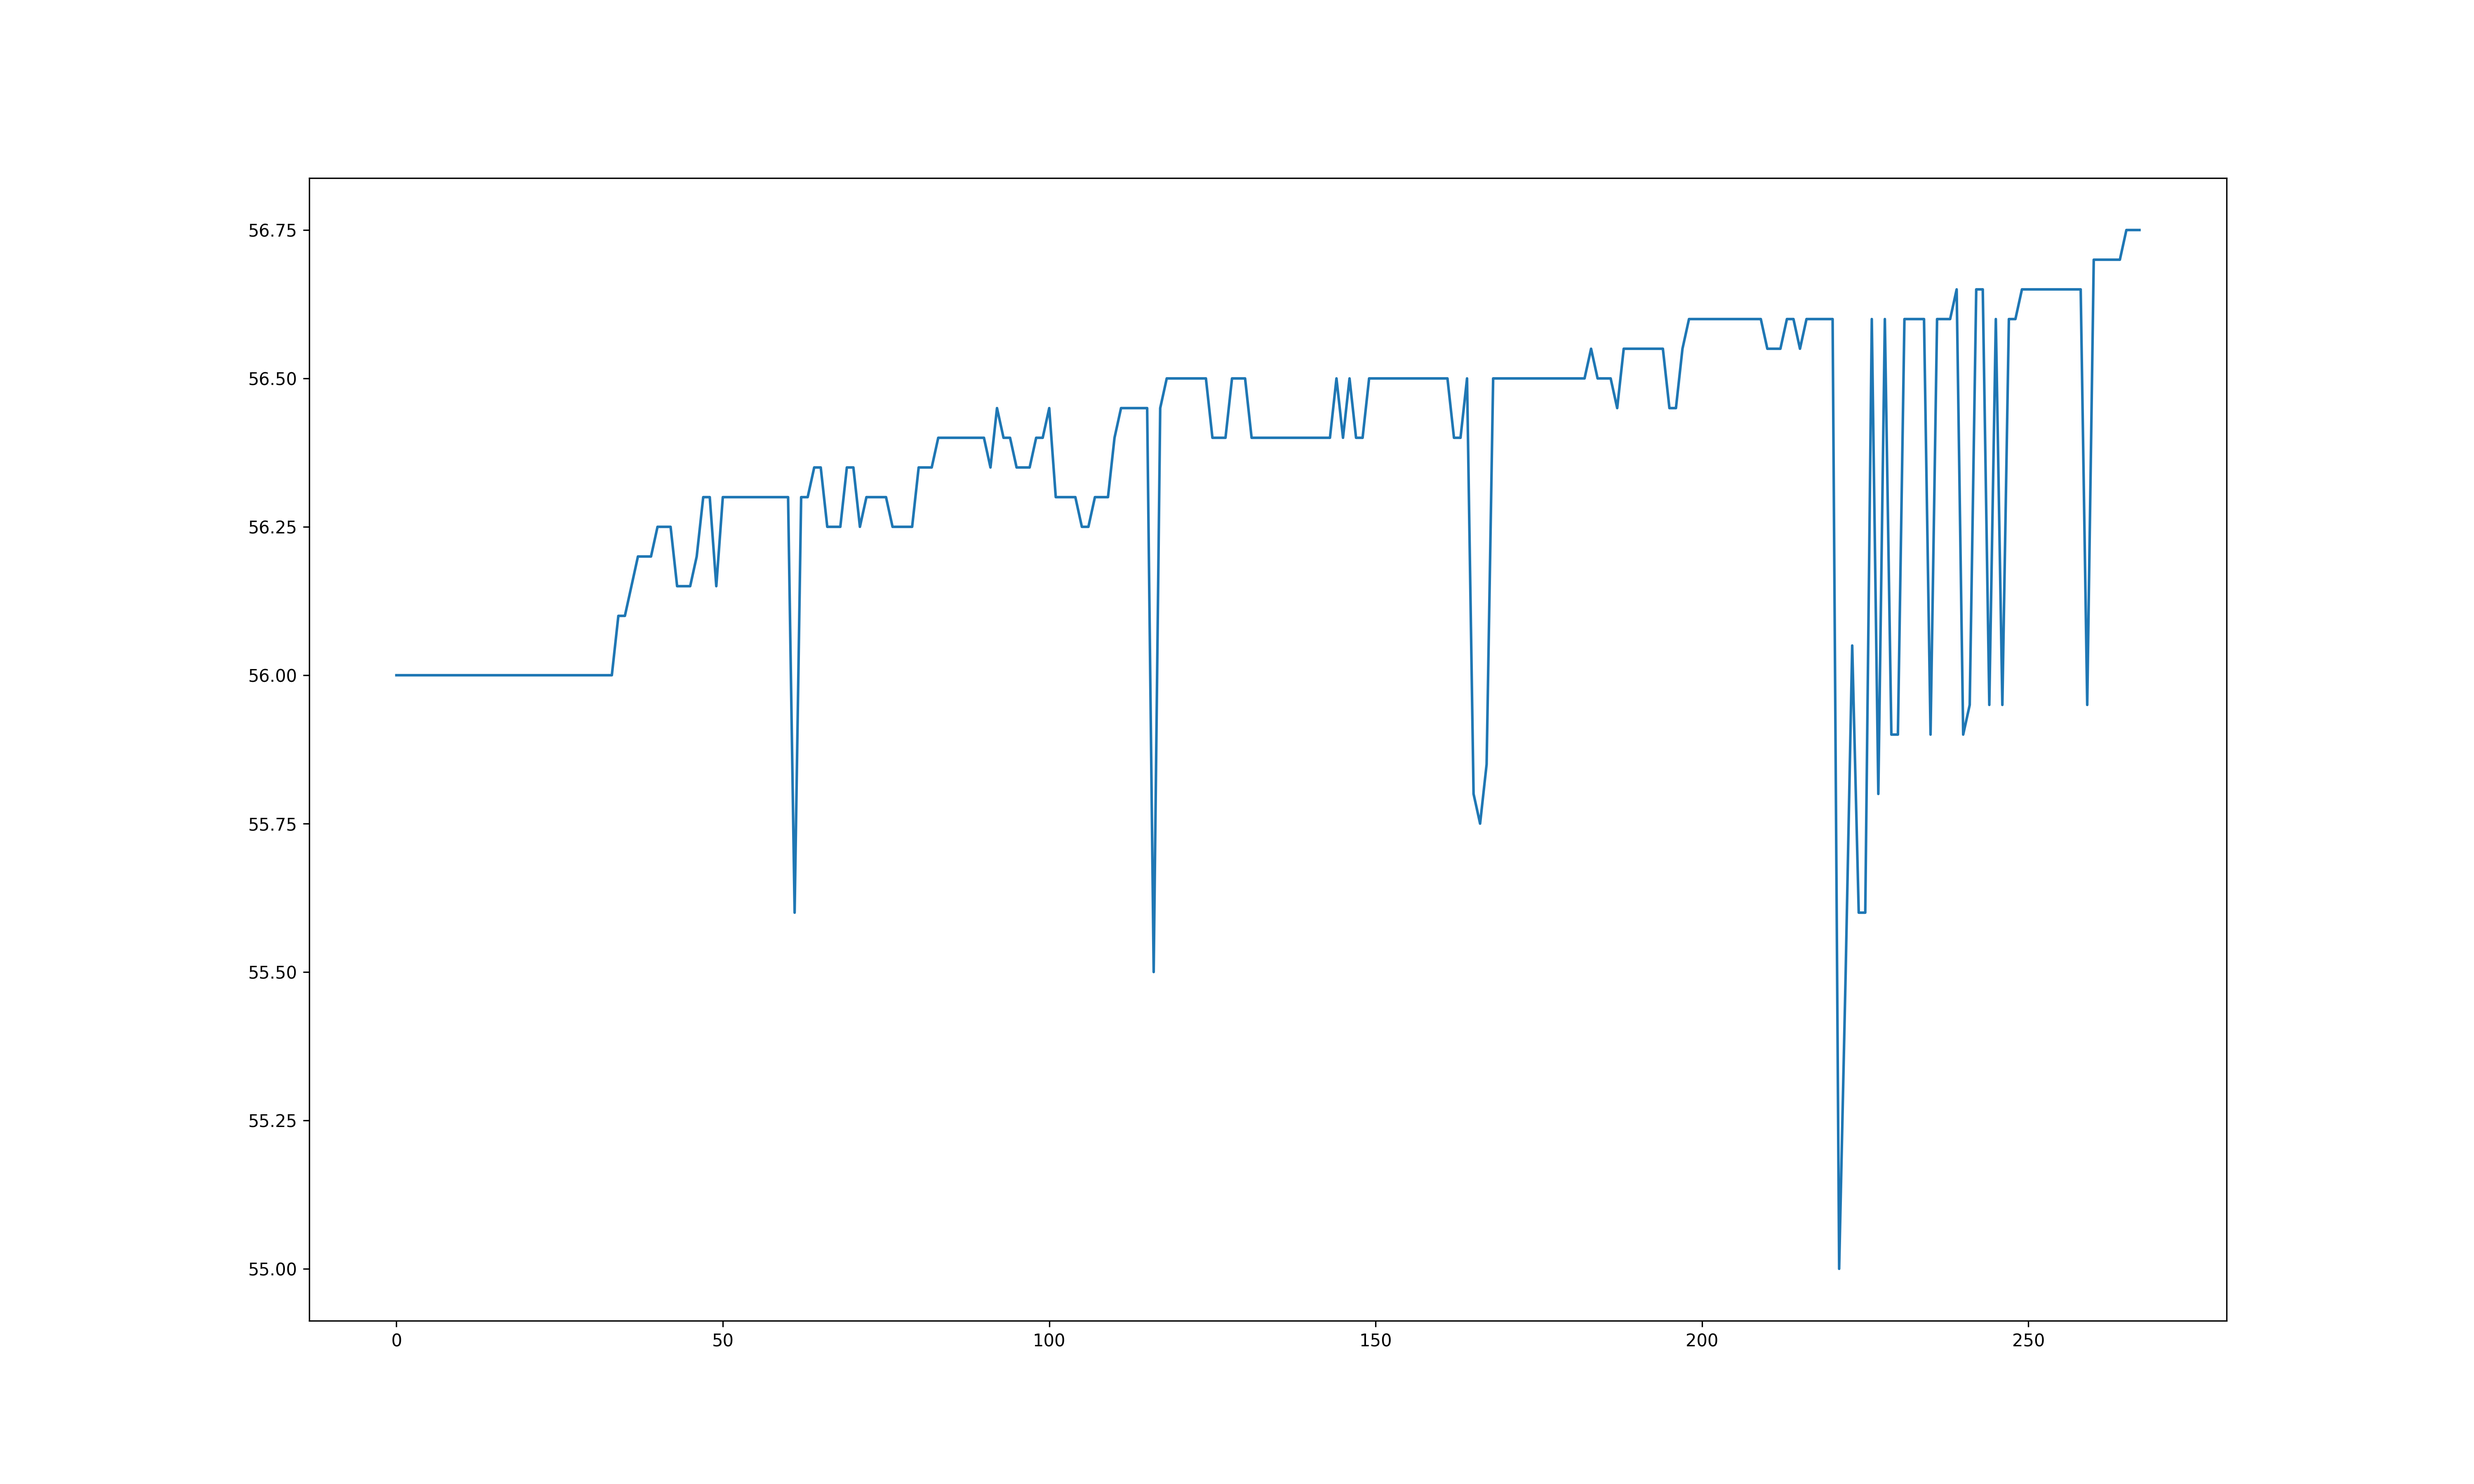
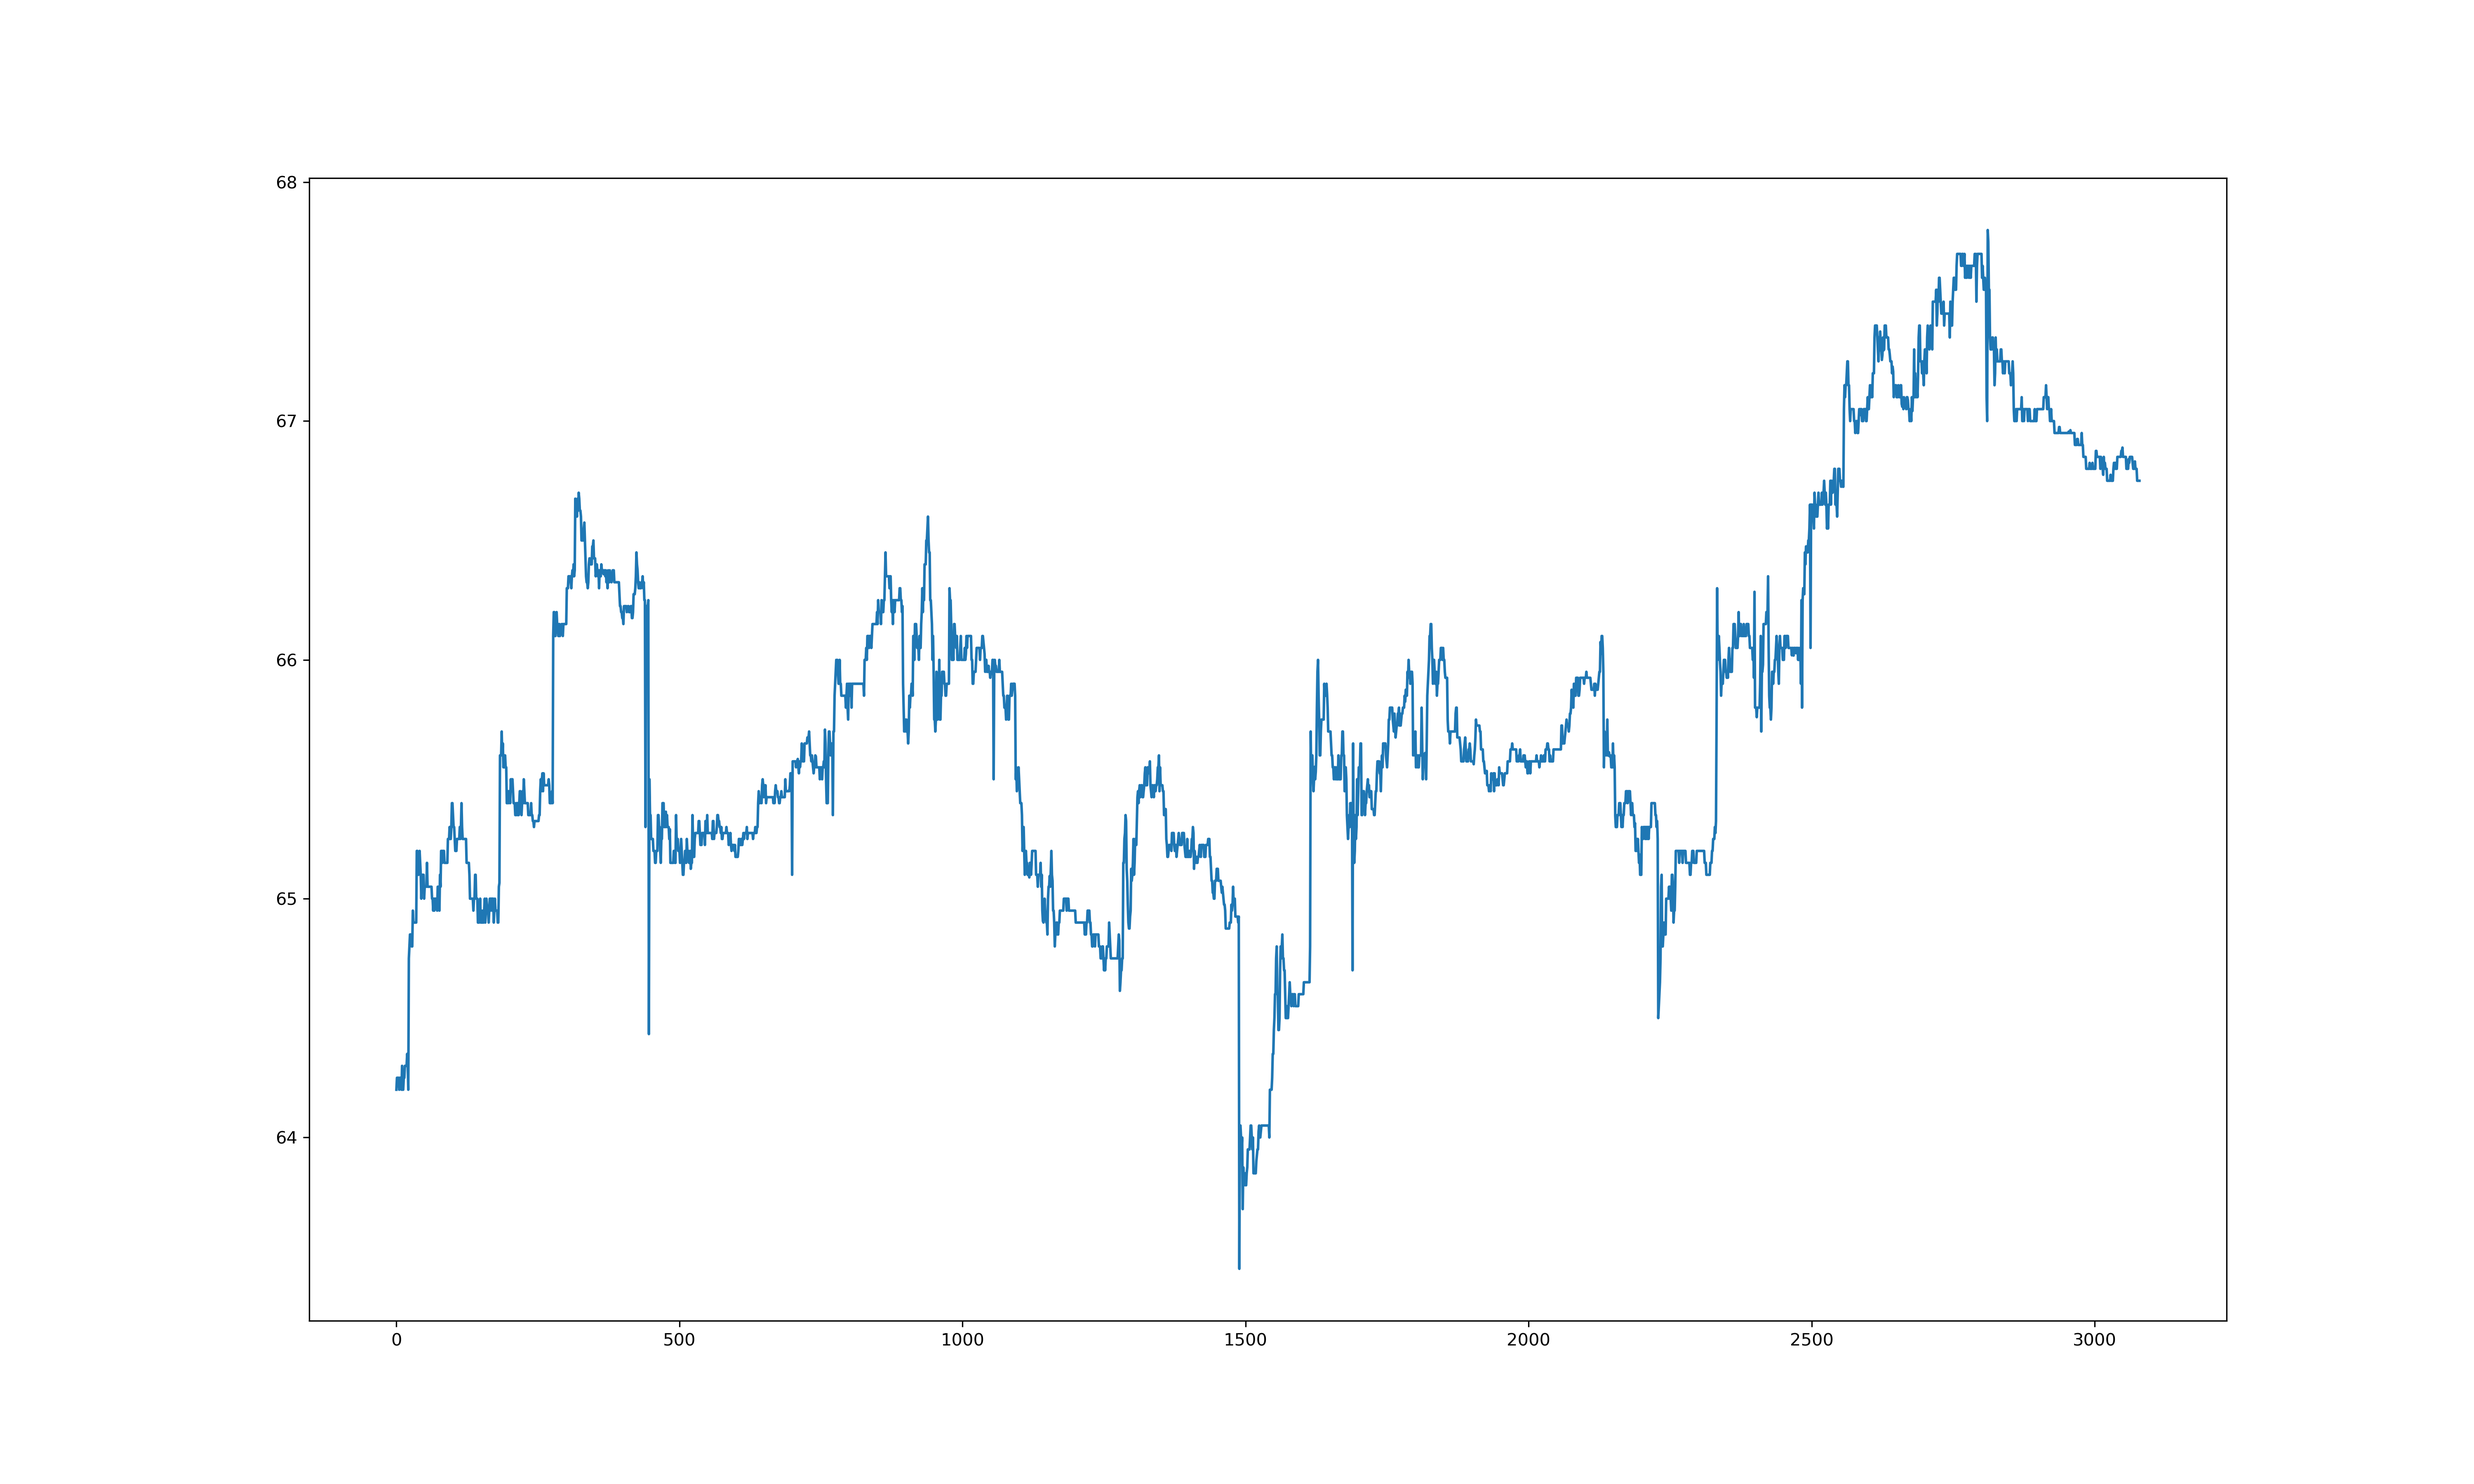
modify the plot

diff --git a/codes/filter.py b/codes/filter.py
@@ -63,19 +63,20 @@ class Filters:
 
 
 if __name__ == '__main__':
-    # df = pd.read_csv('../data/0005.csv')[:400]
+    df = pd.read_csv('../data/0005.csv', index_col=0, names=['date', 'price'])
+    df = df.iloc[:int(0.1 * df.shape[0]), 0]
     # df = df.price.rolling(window=5, win_type='hamming').mean()
     # df.dropna(inplace=True)
 
-    df = web.get_data_yahoo('^GSPC').Close[700:]
-    df.to_csv('../data/sp.csv')
-    dates = df.index.values
-    df = pd.Series(np.log(df), index=dates)
+    # df = web.get_data_yahoo('^GSPC').Close[700:]
+    # df.to_csv('../data/sp.csv')
+    # dates = df.index.values
+    # df = pd.Series(np.log(df), index=dates)
 
     # r = RandSignal(upper=10, lower=1, freq=0.5, size=10)
     # clean_signal = list(r.fake_signal)
     # df = list(noise_signal(clean_signal))
     l1 = Filters().filter('l1')
-    filtered_value = l1(df.values.tolist(), vlambda=1)
+    filtered_value = l1(df.values.tolist(), vlambda=8)
 
-    plot_two_lines(df, pd.Series(filtered_value, index=dates), to_png=False, filename='filtered_fake.png')
+    plot_two_lines(df, pd.Series(filtered_value, index=df.index), to_png=False, filename='filtered_fake.png')

diff --git a/codes/visualization.py b/codes/visualization.py
@@ -30,7 +30,7 @@ class VisualTool:
     """
     def __init__(self, target):
         if isinstance(target, str):
-            self.data = pd.read_csv(target, index_col=0)
+            self.data = pd.read_csv(target, index_col=0, names=['date', 'price'])
             self.data.index = pd.to_datetime(self.data.index)
             self._type = 'from_csv'
         elif isinstance(target, list):
